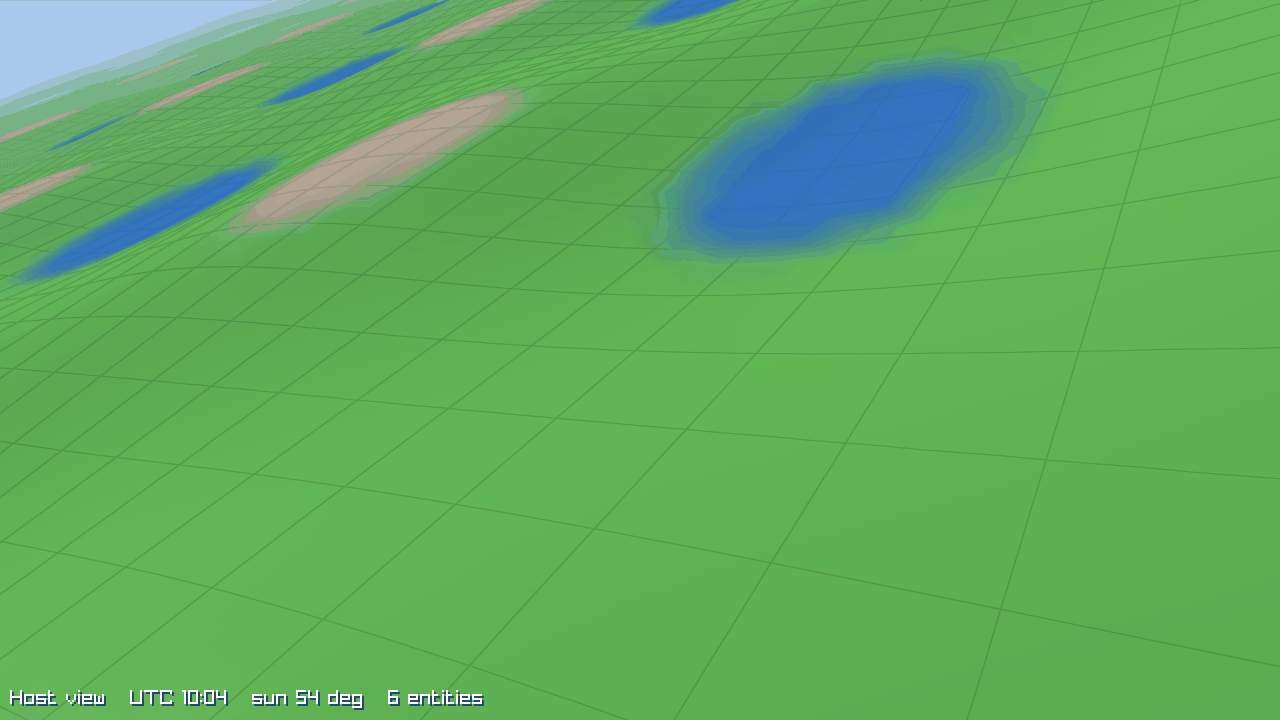
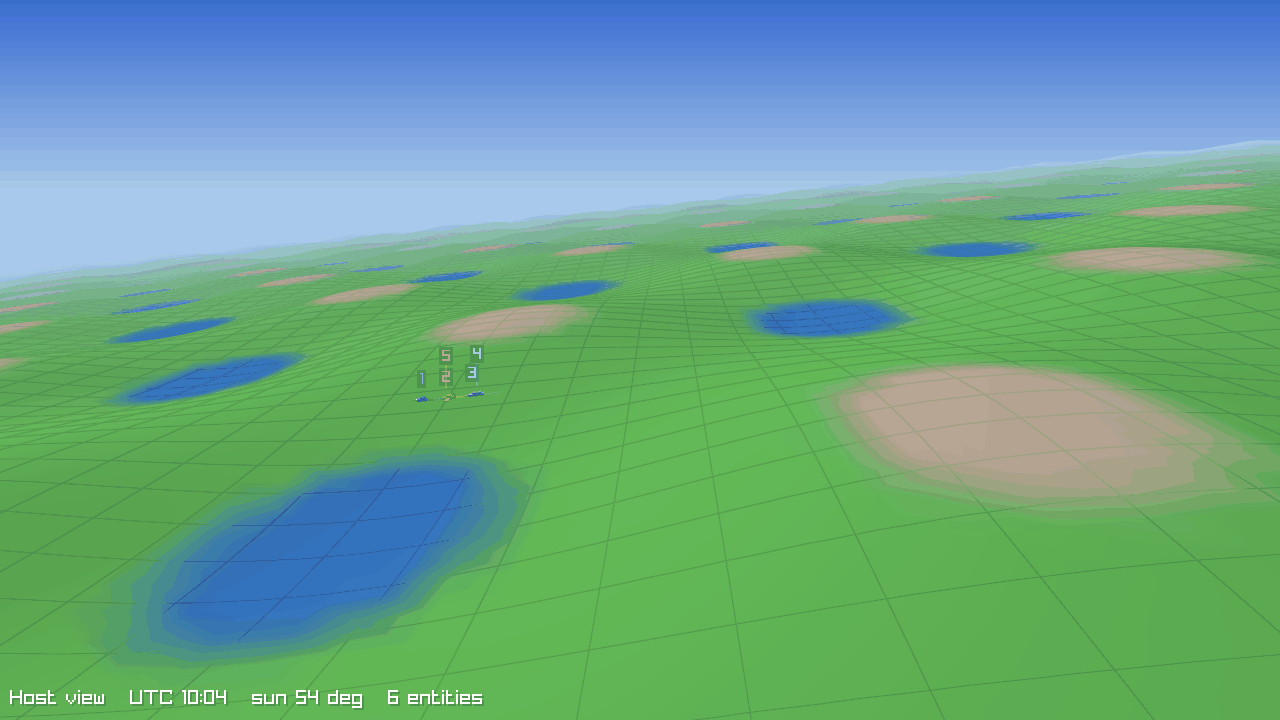
T09b review fixes: CIGI_BUILD_MOCK_IG, host view aimed at convoy, Start of Frame modes, inactive-ancestor extrapolation, MockIg tests, viewer nits

diff --git a/apps/ig_viewer/ui.cpp b/apps/ig_viewer/ui.cpp
@@ -633,13 +633,45 @@ void draw_map(AppState& app) {
     // Entities.
     const Entity* nearest = nullptr;
     float nearest_dist = 14.0F;
-    std::vector<ImVec4> label_rects; // placed ID labels (min.x, min.y, max.x, max.y)
+    std::vector<ImVec4>& label_rects = app.ui.map_label_rects; // placed ID labels (x0 y0 x1 y1)
+    label_rects.clear();
+    // Try the right of the icon, then above, below and left; take the first free spot so
+    // neighbouring entities (e.g. 3 and 4) never print on top of each other.
+    const auto place_label = [&](std::uint16_t id, const ImVec2& s, float r) {
+        const std::string text = std::to_string(id);
+        const ImVec2 ts = ImGui::CalcTextSize(text.c_str());
+        const std::array<ImVec2, 6> candidates{{{s.x + r + 3.0F, s.y - (ts.y * 0.5F)},
+                                                {s.x + r + 3.0F, s.y - r - ts.y},
+                                                {s.x + r + 3.0F, s.y + r},
+                                                {s.x - r - 3.0F - ts.x, s.y - (ts.y * 0.5F)},
+                                                {s.x - (ts.x * 0.5F), s.y - r - ts.y - 6.0F},
+                                                {s.x - (ts.x * 0.5F), s.y + r + 6.0F}}};
+        for (const ImVec2& c : candidates) {
+            const ImVec4 rect{c.x - 1.0F, c.y, c.x + ts.x + 1.0F, c.y + ts.y};
+            const bool free = std::ranges::none_of(label_rects, [&](const ImVec4& q) {
+                return rect.x < q.z && q.x < rect.z && rect.y < q.w && q.y < rect.w;
+            });
+            if (free) {
+                label_rects.push_back(rect);
+                dl->AddRectFilled({rect.x, rect.y}, {rect.z, rect.w}, IM_COL32(0, 0, 0, 120));
+                dl->AddText(c, IM_COL32(255, 255, 255, 235), text.c_str());
+                return;
+            }
+        }
+    };
+    // The selected entity's label is placed first so it always wins a free spot.
+    if (app.draw.labels) {
+        if (const Entity* sel = scene.find(app.selected); sel != nullptr && sel->visible) {
+            place_label(app.selected, to_screen(sel->enu.x, sel->enu.y), 9.0F);
+        }
+    }
     for (const auto& [id, e] : scene.entities()) {
         if (!e.visible) {
             continue;
         }
         if (app.draw.trails && e.trail.size() > 1) {
-            std::vector<ImVec2> pts;
+            std::vector<ImVec2>& pts = app.ui.map_pts;
+            pts.clear();
             // ~24 points per entity keeps the map cheap (ImDrawIdx is 32-bit, see
             // Dependencies.cmake).
             const std::size_t first = e.trail.size() > 192 ? e.trail.size() - 192 : 0;
@@ -684,29 +716,8 @@ void draw_map(AppState& app) {
         if (id == app.selected) {
             dl->AddCircle(s, r + 4.0F, IM_COL32(255, 235, 60, 255), 24, 2.0F);
         }
-        if (app.draw.labels && (scale > 0.05F || id == app.selected || id < 100)) {
-            // Try the right of the icon, then above, below and left; take the first free spot
-            // so neighbouring entities (e.g. 3 and 4) never print on top of each other.
-            const std::string text = std::to_string(id);
-            const ImVec2 ts = ImGui::CalcTextSize(text.c_str());
-            const std::array<ImVec2, 6> candidates{{{s.x + r + 3.0F, s.y - (ts.y * 0.5F)},
-                                                    {s.x + r + 3.0F, s.y - r - ts.y},
-                                                    {s.x + r + 3.0F, s.y + r},
-                                                    {s.x - r - 3.0F - ts.x, s.y - (ts.y * 0.5F)},
-                                                    {s.x - (ts.x * 0.5F), s.y - r - ts.y - 6.0F},
-                                                    {s.x - (ts.x * 0.5F), s.y + r + 6.0F}}};
-            for (const ImVec2& c : candidates) {
-                const ImVec4 rect{c.x - 1.0F, c.y, c.x + ts.x + 1.0F, c.y + ts.y};
-                const bool free = std::ranges::none_of(label_rects, [&](const ImVec4& q) {
-                    return rect.x < q.z && q.x < rect.z && rect.y < q.w && q.y < rect.w;
-                });
-                if (free) {
-                    label_rects.push_back(rect);
-                    dl->AddRectFilled({rect.x, rect.y}, {rect.z, rect.w}, IM_COL32(0, 0, 0, 120));
-                    dl->AddText(c, IM_COL32(255, 255, 255, 235), text.c_str());
-                    break;
-                }
-            }
+        if (app.draw.labels && id != app.selected && (scale > 0.05F || id < 100)) {
+            place_label(id, s, r);
         }
         const float d = std::hypot(io.MousePos.x - s.x, io.MousePos.y - s.y);
         if (d < nearest_dist) {

diff --git a/tests/mock_ig/mock_ig_test.cpp b/tests/mock_ig/mock_ig_test.cpp
@@ -1,0 +1,88 @@
+#include "mock_ig/mock_ig.hpp"
+
+#include <array>
+#include <cigi/message/builder.hpp>
+#include <gtest/gtest.h>
+#include <vector>
+
+namespace {
+
+using namespace cigi;
+using namespace cigi::mock;
+
+/// Host message with an IgControl in `mode`, run through one IG frame; returns the Start of
+/// Frame mode of the reply.
+IgMode reply_mode(IgMode mode) {
+    MockIg ig;
+    std::array<std::byte, 256> storage{};
+    MessageBuilder host(Direction::HostToIg, storage);
+    EXPECT_TRUE(host.add(IgControl{.ig_mode = mode}));
+    EXPECT_TRUE(ig.ingest(host.bytes()));
+    const auto replies = ig.end_frame(1.0 / 60.0);
+    std::array<std::byte, 256> out{};
+    MessageBuilder builder(Direction::IgToHost, out);
+    EXPECT_TRUE(ig.build_reply(builder, replies));
+    const auto view = MessageView::parse(builder.bytes());
+    EXPECT_TRUE(view);
+    for (const auto& item : *view) {
+        if (item && item->opcode == StartOfFrame::opcode) {
+            const auto sof = item->decode_as<StartOfFrame>();
+            EXPECT_TRUE(sof);
+            return sof->ig_mode;
+        }
+    }
+    ADD_FAILURE() << "no Start of Frame";
+    return IgMode::ResetStandby;
+}
+
+TEST(MockIg, StartOfFrameEchoesOperateAndDebug) {
+    EXPECT_EQ(reply_mode(IgMode::Operate), IgMode::Operate);
+    EXPECT_EQ(reply_mode(IgMode::Debug), IgMode::Debug);
+}
+
+TEST(MockIg, StartOfFrameReportsResetStandbyForEveryOtherMode) {
+    EXPECT_EQ(reply_mode(IgMode::ResetStandby), IgMode::ResetStandby);
+    EXPECT_EQ(reply_mode(IgMode::OfflineMaintenance), IgMode::ResetStandby);
+}
+
+TEST(MockIg, IngestRejectsADatagramThatIsNotCigi) {
+    MockIg ig;
+    const std::array<std::byte, 3> junk{std::byte{1}, std::byte{2}, std::byte{3}};
+    const auto stats = ig.ingest(junk);
+    EXPECT_FALSE(stats);
+    EXPECT_EQ(ig.ig_frame(), 0U);
+}
+
+TEST(MockIg, BuildReplyReportsABufferThatIsTooSmall) {
+    MockIg ig;
+    const auto replies = ig.end_frame(0.1);
+    std::array<std::byte, 4> tiny{};
+    MessageBuilder builder(Direction::IgToHost, tiny);
+    const auto r = ig.build_reply(builder, replies);
+    ASSERT_FALSE(r);
+    EXPECT_EQ(r.error().code, ErrorCode::BufferTooSmall);
+}
+
+TEST(MockIg, BuildReplyReportsAnAnswerThatDoesNotFit) {
+    const MockIg ig;
+    const MockIg::Replies replies{HatHotResponse{}, HatHotResponse{}};
+    // Room for Start of Frame only.
+    std::array<std::byte, 24> small{};
+    MessageBuilder probe(Direction::IgToHost, small);
+    ASSERT_TRUE(probe.add(StartOfFrame{}));
+    std::array<std::byte, 24> storage{};
+    MessageBuilder builder(Direction::IgToHost, std::span(storage).first(probe.size()));
+    const auto r = ig.build_reply(builder, replies);
+    ASSERT_FALSE(r);
+    EXPECT_EQ(r.error().code, ErrorCode::BufferTooSmall);
+}
+
+TEST(MockIg, AccessorsExposeTheSceneAndTheResponder) {
+    MockIg ig;
+    const MockIg& cig = ig;
+    EXPECT_EQ(&ig.scene(), &cig.scene());
+    EXPECT_EQ(&ig.hat_hot(), &cig.hat_hot());
+    EXPECT_TRUE(cig.scene().entities().empty());
+}
+
+} // namespace

diff --git a/apps/ig_viewer/renderer.cpp b/apps/ig_viewer/renderer.cpp
@@ -611,11 +611,13 @@ void Renderer::draw_overlay(const CameraResult& cam, const SkyState& sky,
             const int x = static_cast<int>(s.x) - (w / 2);
             int y = static_cast<int>(s.y) - h - 4;
             int steps = 0;
-            while (steps < 12 && overlaps(x, y, w, h)) {
+            bool found = !overlaps(x, y, w, h);
+            while (!found && steps < 12) {
                 y -= h + 1;
                 ++steps;
+                found = !overlaps(x, y, w, h);
             }
-            if (steps == 12) {
+            if (!found) {
                 return; // no room: drop the label rather than draw an unreadable pile
             }
             placed.push_back({x, y, w, h});
@@ -648,8 +650,6 @@ void Renderer::draw_overlay(const CameraResult& cam, const SkyState& sky,
     const std::string hud =
         std::format("{}   UTC {:02}:{:02}   sun {:.0f} deg   {} entities", mode, c.hour, c.minute,
                     sky.sun.elevation_deg, scene.entities().size());
-    const int text_color_dark = sky.daylight > 0.5F ? 1 : 0;
-    (void)text_color_dark;
     DrawText(hud.c_str(), 12, GetScreenHeight() - 30, 20, Fade(BLACK, 0.85F));
     DrawText(hud.c_str(), 10, GetScreenHeight() - 32, 20, WHITE);
 }

diff --git a/apps/mock_ig/scene.cpp b/apps/mock_ig/scene.cpp
@@ -383,11 +383,31 @@ void SceneModel::register_handlers(Handlers& dispatcher, HatHotResponder* respon
 
 // ---- time -------------------------------------------------------------------------------------
 
+bool SceneModel::active_chain(const Entity& e) const {
+    const Entity* cur = &e;
+    // Hierarchy depth is bounded (cycles are refused), but cap the walk defensively.
+    for (std::size_t depth = 0; depth <= entities_.size(); ++depth) {
+        if (cur->state != EntityState::Active) {
+            return false;
+        }
+        if (!cur->attached) {
+            return true;
+        }
+        const auto it = entities_.find(cur->parent_id);
+        if (it == entities_.end()) {
+            return true;
+        }
+        cur = &it->second;
+    }
+    return false;
+}
+
 void SceneModel::advance(double dt_s) {
     if (dt_s > 0.0) {
         for (auto& [id, e] : entities_) {
             // An Inactive/Standby entity has no transformations applied (Table 7).
-            if (e.state == EntityState::Active) {
+            // ICD 4.1.2: the children of an Inactive entity are disabled too.
+            if (active_chain(e)) {
                 integrate(e, dt_s);
             }
         }

diff --git a/apps/mock_ig/mock_ig.cpp b/apps/mock_ig/mock_ig.cpp
@@ -24,10 +24,15 @@ MockIg::Replies MockIg::end_frame(double dt_s) {
 }
 
 Result<void> MockIg::build_reply(MessageBuilder& builder, const Replies& replies) const {
-    const bool operate = scene_.ig_control().ig_mode == IgMode::Operate;
+    // Operate and Debug are echoed; anything else (Reset/Standby, Offline Maintenance) reads as
+    // Reset/Standby from the IG.
+    const IgMode host_mode = scene_.ig_control().ig_mode;
+    const IgMode mode = (host_mode == IgMode::Operate || host_mode == IgMode::Debug)
+                            ? host_mode
+                            : IgMode::ResetStandby;
     // The frame just ended carried number ig_frame_ - 1 (ig_frame_ counts ended frames).
     if (auto r = builder.add(StartOfFrame{
-            .ig_mode = operate ? IgMode::Operate : IgMode::ResetStandby,
+            .ig_mode = mode,
             .ig_frame_number = ig_frame_ == 0 ? 0 : ig_frame_ - 1,
             .last_host_frame_number = scene_.host_frame_number(),
         });

diff --git a/tests/mock_ig/scene_test.cpp b/tests/mock_ig/scene_test.cpp
@@ -496,6 +496,21 @@ TEST(Scene, InactiveEntitiesDoNotMove) {
     EXPECT_DOUBLE_EQ(scene.find(1)->position.lat_deg, 51.5);
 }
 
+TEST(Scene, ChildrenOfAnInactiveParentAreNotExtrapolated) {
+    SceneModel scene(config());
+    auto p = top_level(1, 51.5, -0.12, 100.0);
+    p.entity_state = EntityState::InactiveStandby;
+    scene.apply(p);
+    scene.apply(child(2, 1, 1, 0, 0));
+    scene.apply(RateControl{.entity_id = 2, .x_linear_rate = 10.0F});
+    scene.advance(5.0);
+    EXPECT_DOUBLE_EQ(scene.find(2)->offset.x, 1.0);
+    p.entity_state = EntityState::Active;
+    scene.apply(p);
+    scene.advance(5.0);
+    EXPECT_GT(scene.find(2)->offset.x, 1.0);
+}
+
 TEST(Scene, ANewEntityControlRestartsExtrapolationFromItsState) {
     SceneModel scene(config());
     scene.apply(top_level(1, 51.5, -0.12, 100.0));

diff --git a/apps/mock_ig/scripted_host.cpp b/apps/mock_ig/scripted_host.cpp
@@ -321,8 +321,11 @@ Result<void> ScriptedHost::build_frame(MessageBuilder& builder) {
             .entity_id = ownship_id,
             .x_offset = 1.0F,
             .z_offset = -1.0F,
-            .pitch = -12.0F, // looking down and into the turn, so the convoy comes into view
-            .yaw = 45.0F,
+            // The ownship banks ~23 degrees into its clockwise turn, so its right wing points
+            // below the horizon: yaw 75 (convoy is a little ahead of the right wing) and pitch
+            // +12 (cancelling the bank) frame the convoy ~11 degrees below the horizon.
+            .pitch = 12.0F,
+            .yaw = 75.0F,
         });
     }
 

diff --git a/tests/mock_ig/scripted_host_test.cpp b/tests/mock_ig/scripted_host_test.cpp
@@ -210,8 +210,8 @@ TEST(ScriptedHost, SixHundredFramesProduceTheExpectedWorld) {
     EXPECT_EQ(view->entity_id, 0);
     EXPECT_DOUBLE_EQ(view->offset.x, 1.0);
     EXPECT_DOUBLE_EQ(view->offset.z, -1.0);
-    EXPECT_DOUBLE_EQ(view->attitude.yaw_deg, 45.0);
-    EXPECT_DOUBLE_EQ(view->attitude.pitch_deg, -12.0);
+    EXPECT_DOUBLE_EQ(view->attitude.yaw_deg, 75.0);
+    EXPECT_DOUBLE_EQ(view->attitude.pitch_deg, 12.0);
     EXPECT_DOUBLE_EQ(view->horizontal_fov_deg(), 70.0);
     EXPECT_DOUBLE_EQ(view->vertical_fov_deg(), 42.0);
     ASSERT_TRUE(scene.view_pose(0).has_value());

diff --git a/apps/ig_viewer/app.hpp b/apps/ig_viewer/app.hpp
@@ -9,6 +9,7 @@
 #include <cstddef>
 #include <cstdint>
 #include <deque>
+#include <imgui.h>
 #include <string>
 #include <vector>
 
@@ -56,6 +57,9 @@ struct UiState {
     mock::Vec3d map_center{};
     float map_scale = 0.09F; ///< Pixels per metre.
     bool map_follow = false;
+    // Scratch buffers reused every frame by the map.
+    std::vector<ImVec2> map_pts;
+    std::vector<ImVec4> map_label_rects;
     // Inspector
     int inspector_offset = 0; ///< 0: newest recorded frame; n: n frames older.
     std::string inspector_filter;

diff --git a/apps/ig_viewer/args.cpp b/apps/ig_viewer/args.cpp
@@ -119,8 +119,8 @@ Args parse_args(int argc, const char* const* argv) {
     if (a.error.empty() && (a.origin_lat < -89.0 || a.origin_lat > 89.0)) {
         a.error = "origin latitude must be within +-89 degrees";
     }
-    if (a.error.empty() && (a.stress < 0 || a.stress > 2000)) {
-        a.error = "--stress must be 0..2000";
+    if (a.error.empty() && (a.stress < 0 || a.stress > 1000)) {
+        a.error = "--stress must be 0..1000 (the Host message must fit in a UDP datagram)";
     }
     return a;
 }

diff --git a/apps/ig_viewer/app.cpp b/apps/ig_viewer/app.cpp
@@ -30,6 +30,8 @@ void step_simulation(AppState& app) {
     MessageBuilder builder(Direction::IgToHost, storage);
     if (app.ig.build_reply(builder, replies)) {
         record.ig_message.assign(builder.bytes().begin(), builder.bytes().end());
+    } else {
+        app.last_error = "reply: IG message does not fit its buffer";
     }
 
     app.history.push_back(std::move(record));

diff --git a/apps/mock_ig/scene.hpp b/apps/mock_ig/scene.hpp
@@ -265,6 +265,7 @@ public:
 private:
     void log_line(std::string text);
     void destroy_tree(std::uint16_t id);
+    [[nodiscard]] bool active_chain(const Entity& e) const;
     [[nodiscard]] bool would_cycle(std::uint16_t entity_id, std::uint16_t parent_id) const;
     void resolve_entity(Entity& e);
     void record_trails();
